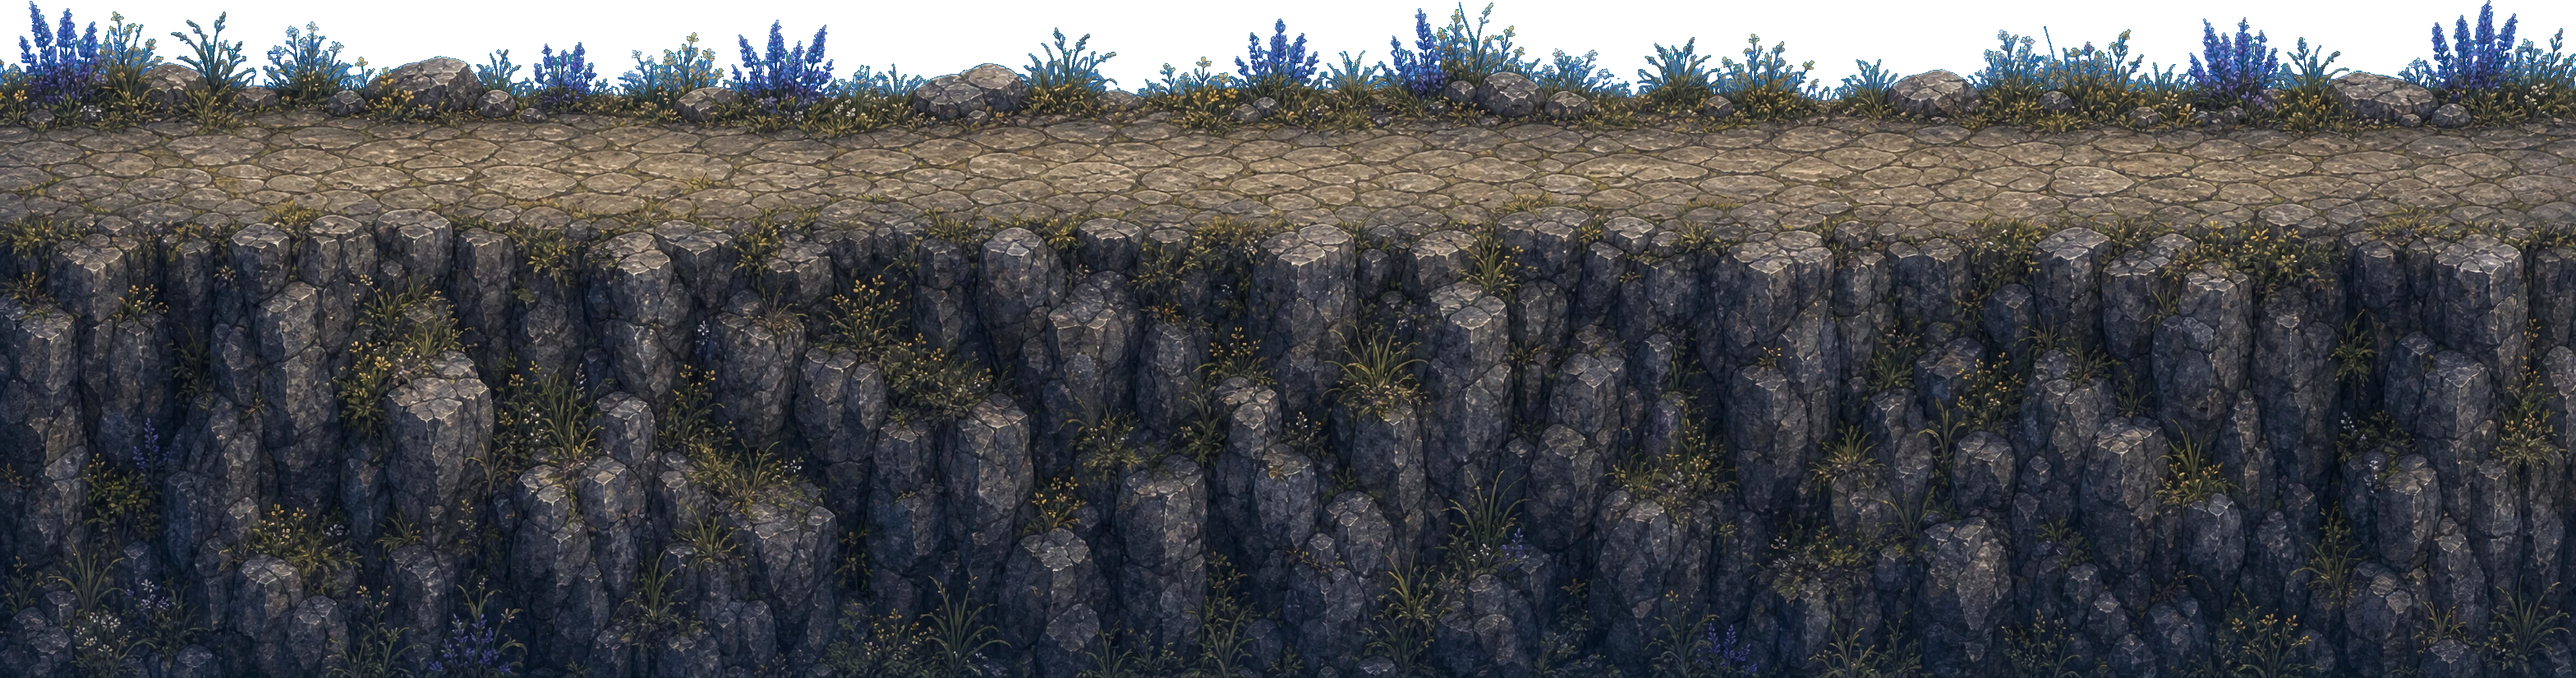
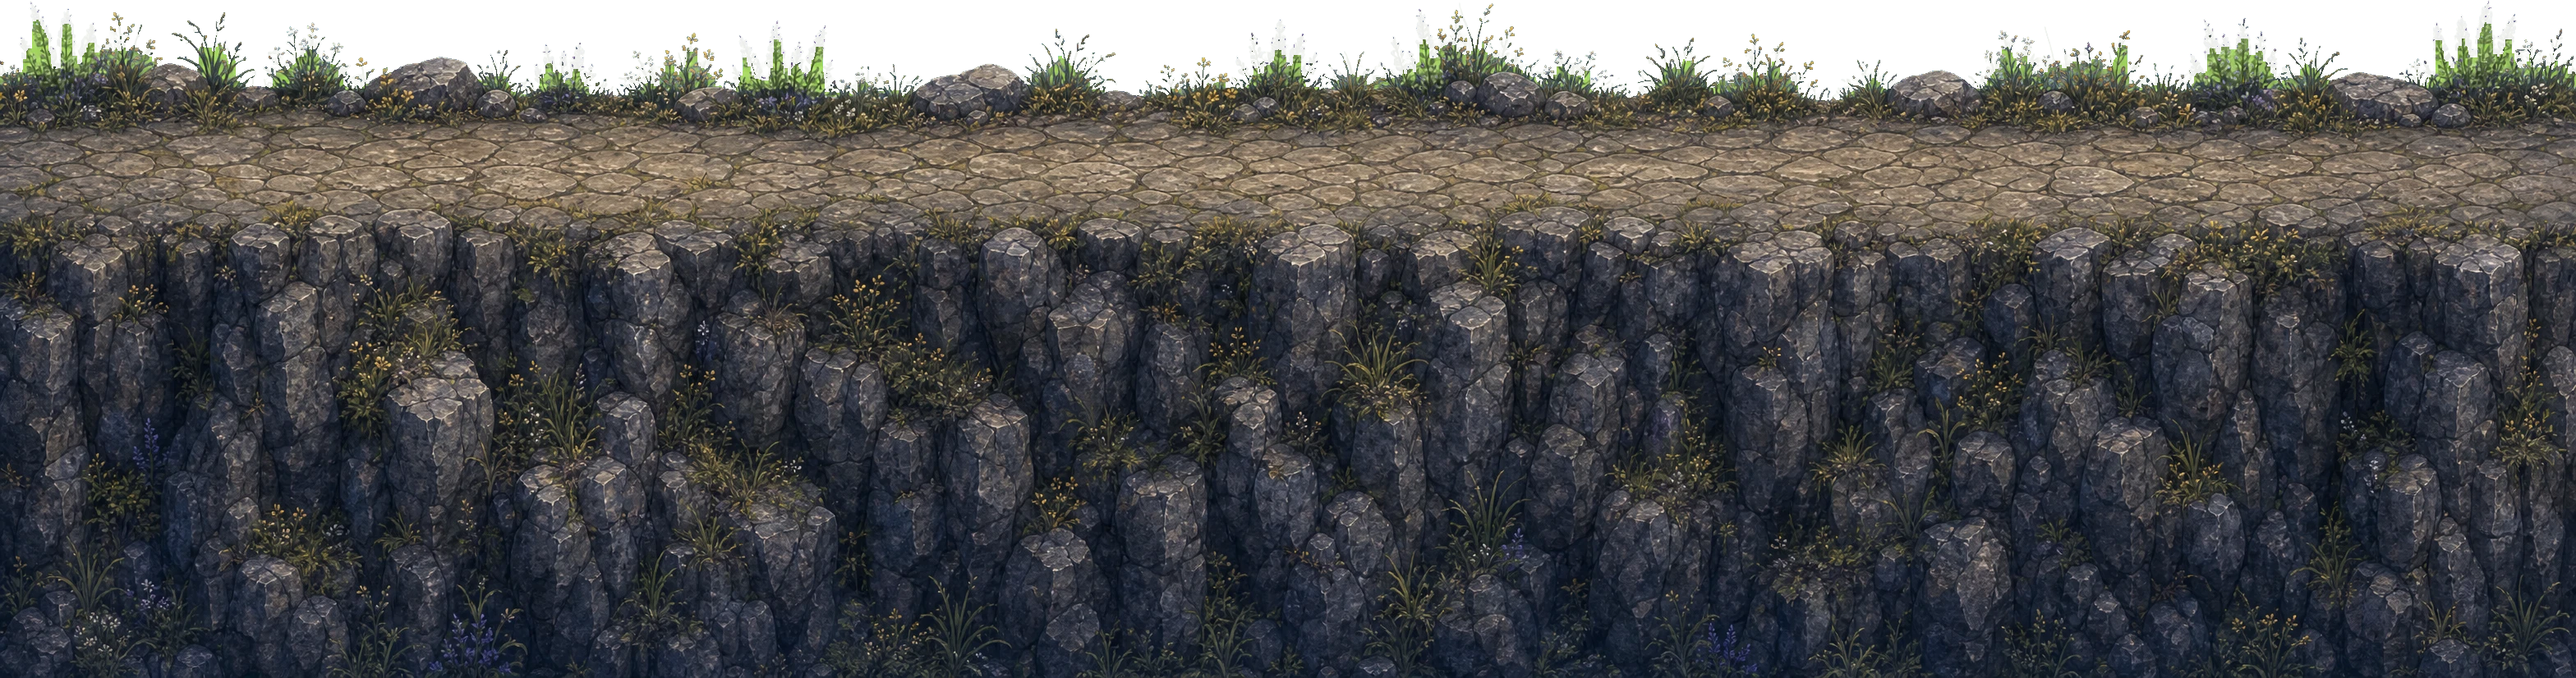
Draft 98 addendum + Draft 99: painted fog walls/gap tile, title audio leak
Draft 98 addendum: swap the procedural fog column and flat gradient gap
overlay for painted sprites (fog-wall-a/b/c cycled across the five walls
with per-wall tint/wobble/breathe, and a painted gap tile scaled to each
gap's width). Re-key runner-trail/runner-mid-ridge (grass tufts and tree
tops were still carrying key blue) and re-anchor the trail layer to the
re-keyed art's walking surface (TRAIL_ART_TOP_OFFSET).

Draft 99: the title screen could inherit a previous zone page's still-
playing campfire/forest ambience and SFX when reached mid-session via
the hub. Root cause not fully isolated to one line, but confirmed live:
an orphaned Zone 2 audio-manager AudioContext survived a full Zone2 ->
hub navigation, undisposed by Zone2Page's own cleanup (which only knows
about its current audioRef instance). Added a small registry in
zoneAudio.js (silenceAllZoneAudio) that every createZoneAudio/
createZone2Audio instance joins and leaves via dispose(); the title
screen calls it on mount so it always starts from a silent manager
regardless of what upstream page it came from.

Also removes the temporary window.__frunSeek/__frunScene debug hooks
used to verify the Fogline Runner position fix this session.

Changed region(s): [[0.1875, 0.0, 1.0, 0.1513], [0.0, 0.0, 0.1562, 0.1513]]

diff --git a/src/game/foglineRunScene.js b/src/game/foglineRunScene.js
@@ -40,6 +40,11 @@ const INPUT_BUFFER_MS = 100
 
 const LENS_WINDOW_PX = 640 // ~4 body-lengths ahead: the window a wall enters
 const WALL_HALF_W = 180 // fog column is ~360px wide
+// The trail art's own walking surface, measured in from its top edge --
+// shared by the trail layer itself and the gap tile, which is cropped and
+// scaled identically to it (Draft 98 addendum).
+const TRAIL_ART_TOP_OFFSET = 73
+const GAP_TILE_CHASM_W = 304 // the tile's own native chasm width at scale 1
 const FOG_COL_H = 650 // bottom sits on the trail, top reaches roughly y=500
 const ACTIVATE_MS = 550 // hold-to-clear duration once the lens is engaged
 const STUMBLE_OBSTACLE_MS = 600
@@ -177,6 +182,8 @@ export function makeFoglineRunScene(Phaser) {
       Object.entries(c.stumbleUrls || {}).forEach(([k, url]) => load(`stumble-${k}`, url))
       load('activate', c.activateUrl)
       Object.entries(c.propUrls || {}).forEach(([k, url]) => load(`prop-${k}`, url))
+      Object.entries(c.fogWallUrls || {}).forEach(([k, url]) => load(`fogwall-${k}`, url))
+      load('gaptile', c.gapTileUrl)
       load('mistfields', c.mistfieldsUrl)
       ;(c.sparkUrls || []).forEach((url, i) => load(`spark-${i + 1}`, url))
       Object.entries(c.sfxUrls || {}).forEach(([k, url]) => {
@@ -268,18 +275,16 @@ export function makeFoglineRunScene(Phaser) {
       }
       // Far mountains and the ridge are bottom-anchored (their own art ends
       // at its base, "vanishing" behind the next layer down). The trail is
-      // TOP-anchored instead: its walking surface is only ~70px below the
+      // TOP-anchored instead: its walking surface sits well below the
       // art's own top edge, with a tall rocky cliff-face painted below that
       // -- anchoring by its bottom would put the Traveler waist-deep in
       // that cliff face instead of standing on the path.
       this.far = this.makeScrollLayer('bg-far', 0.15, 1, { originY: 1, anchorY: 1150 })
       this.ridge = this.makeScrollLayer('bg-ridge', 0.45, 2, { originY: 1, anchorY: 1180 })
-      // Measured directly against the art (sampling alpha down several
-      // columns of the keyed source): grass tips start ~70-90px into the
-      // image, but the ground isn't reliably SOLID until ~110-130px --
-      // anchoring at the old 70px put the Traveler's feet in the grass
-      // fringe, reading as floating above the path.
-      this.trailLayer = this.makeScrollLayer('bg-trail', 1.0, 3, { originY: 0, anchorY: TRAIL_Y - 210 })
+      // Draft 98 addendum: re-measured against the re-keyed art (the
+      // re-key also fixed grass/tree-top pixels that were still carrying
+      // key blue).
+      this.trailLayer = this.makeScrollLayer('bg-trail', 1.0, 3, { originY: 0, anchorY: TRAIL_Y - TRAIL_ART_TOP_OFFSET })
     }
 
     makeScrollLayer(key, factor, depth, { originY, anchorY }) {
@@ -318,21 +323,33 @@ export function makeFoglineRunScene(Phaser) {
     // ---- trail surface + visible gaps. The trail texture scrolls exactly
     // like the other layers (factor 1.0, already built above) and never
     // actually has a hole cut in it -- these overlays are the ONLY thing
-    // visually breaking the path open at each gap. A flat opaque rectangle
-    // read as a jarring solid black block once the world-position bug
-    // (see updateWorldPositions) was fixed and these became visible for
-    // the first time in practice; a top-down gradient (solid near the
-    // path, fading out with depth) plus a thin bright rim at the lip
-    // reads as an actual drop instead, and doubles as the "where do I
-    // jump" telegraph. ----
+    // visually breaking the path open at each gap. Draft 98 addendum:
+    // a painted tile (broken trail edges either side of a chasm) replaces
+    // the original ship's flat gradient overlay -- cropped/scaled
+    // identically to the trail layer itself, so its edges line up with
+    // the surrounding ground, and scaled HORIZONTALLY ONLY to match each
+    // gap's own width (the tile's chasm is ~304px wide at scale 1, its
+    // native size; the two 300px-wide gaps are close enough to ship at
+    // that native scale unmodified). ----
     buildTrailAndGaps() {
-      const GAP_DRAW_H = 420
+      const hasTile = this.textures.exists('gaptile')
       this.gapFills = LEVEL.gaps.map((g) => {
+        if (hasTile) {
+          const scaleX = Math.max(0.66, Math.min(1, g.w / GAP_TILE_CHASM_W))
+          const img = this.add
+            .image(g.x + g.w / 2, TRAIL_Y - TRAIL_ART_TOP_OFFSET, 'gaptile')
+            .setOrigin(0.5, 0)
+            .setDepth(4)
+          img.setScale(scaleX, 1)
+          return { ...g, obj: img }
+        }
+        // Fallback if the painted tile is ever missing: the flat gradient
+        // this shipped with originally.
         const width = g.w + 8
         const container = this.add.container(g.x + g.w / 2, TRAIL_Y).setDepth(4)
         const body = this.add.graphics()
         body.fillGradientStyle(0x11151f, 0x11151f, 0x11151f, 0x11151f, 0.95, 0.95, 0, 0)
-        body.fillRect(-width / 2, 0, width, GAP_DRAW_H)
+        body.fillRect(-width / 2, 0, width, 420)
         const rim = this.add.rectangle(0, 1, width, 5, 0xd7dde8, 0.6).setOrigin(0.5, 0)
         container.add([body, rim])
         return { ...g, obj: container }
@@ -355,19 +372,48 @@ export function makeFoglineRunScene(Phaser) {
       })
     }
 
+    // Draft 98 addendum: painted fog-wall sprites (cycled a/b/c across the
+    // five walls) replace the procedural column. Bottom-anchored ON the
+    // trail; scaled to ~1.9x the Traveler's display height; a small
+    // per-wall scale "wobble" plus a slow, continuous vertical "breathe"
+    // (scaleY drifting a further 4% up and back) so five identical crops
+    // of the same three sprites don't read as static cutouts. Cool tint
+    // for walls 1-4, a touch warmer for the last one (it opens onto the
+    // Mistfields instead of a prop).
     buildWalls() {
-      this.walls = LEVEL.walls.map((w) => {
-        // Bottom-anchored ON the trail so the column actually stands in
-        // the Traveler's path (it previously floated 250-870px up in the
-        // sky, nowhere near the ground she runs on).
-        const col = this.add.image(w.x, TRAIL_Y, 'frun-fogcol').setOrigin(0.5, 1).setDepth(20)
+      const FOG_WALL_KEYS = ['a', 'b', 'c']
+      const FOG_WALL_DISPLAY_H = TRAVELER_H * 1.9
+      const TINT_COOL = 0xcfe0f2
+      const TINT_WARM = 0xf5e3c9
+      this.walls = LEVEL.walls.map((w, i) => {
+        const wallKey = `fogwall-${FOG_WALL_KEYS[i % FOG_WALL_KEYS.length]}`
+        const hasSprite = this.textures.exists(wallKey)
+        const col = this.add.image(w.x, TRAIL_Y, hasSprite ? wallKey : 'frun-fogcol').setOrigin(0.5, 1).setDepth(21)
+        if (hasSprite) {
+          const srcH = this.textures.get(wallKey).getSourceImage().height
+          const wobble = 1 + (((i * 7 + 3) % 5) / 5 - 0.5) * 0.16 // deterministic, roughly ±8%
+          const baseScale = (FOG_WALL_DISPLAY_H / srcH) * wobble
+          col.setScale(baseScale)
+          col.setTint(w.last ? TINT_WARM : TINT_COOL)
+          const breatheMs = 3000 + ((i * 733) % 2000) // 3000-5000ms, varied per wall
+          this.tweens.add({
+            targets: col,
+            scaleY: baseScale * 1.04,
+            duration: breatheMs,
+            yoyo: true,
+            repeat: -1,
+            ease: 'Sine.inOut',
+          })
+        }
         let shapeObj = null
         const size = SHAPE_SIZE[w.shape]
         if (size) {
+          // Behind the sprite (depth 21) -- it reads as "something in the
+          // fog" through the painted cloud rather than floating in front.
           shapeObj = this.add
-            .ellipse(w.x, TRAIL_Y, size.w, size.h, 0x0c1220, 0.72)
+            .ellipse(w.x, TRAIL_Y, size.w, size.h, 0x0c1220, 0.55)
             .setOrigin(0.5, 1)
-            .setDepth(21)
+            .setDepth(20)
         }
         let propObj = null
         if (w.prop) {
@@ -626,7 +672,7 @@ export function makeFoglineRunScene(Phaser) {
       // The wall visibly thins WHILE held (not just at completion) --
       // "the beam builds... the wall thins" reads as one continuous
       // action, and a released-early hold keeps its partial progress.
-      wall.col.setAlpha(0.92 * (1 - t * 0.65))
+      wall.col.setAlpha(1 - t * 0.65)
       if (t >= 1) this.clearWall(wall)
     }
 

diff --git a/src/components/gains/zone/zoneAudio.js b/src/components/gains/zone/zoneAudio.js
@@ -67,6 +67,23 @@ function rampGain(node, to, ms) {
   rampState.set(node, requestAnimationFrame(step))
 }
 
+// Draft 99: every zone page owns its own manager instance and disposes it
+// correctly on unmount -- but a belt-and-suspenders registry costs little
+// and means a page that mounts *after* a zone (namely the title screen,
+// reachable mid-session via the hub) can guarantee silence regardless of
+// whatever upstream page it came from, rather than trusting that every
+// past and future zone page's cleanup path is bug-free. Both manager
+// flavors below register themselves here and unregister in `dispose()`.
+const liveManagers = new Set()
+
+// Force-dispose every zone audio manager that hasn't already torn itself
+// down. Idempotent (each manager's own `disposed` flag no-ops a repeat
+// dispose), safe to call even when nothing is live.
+export function silenceAllZoneAudio() {
+  for (const m of liveManagers) m.dispose()
+  liveManagers.clear()
+}
+
 // `pondUrl` is optional (Draft 80): not every zone's station has its own
 // proximity-crossfaded soundscape (Zone 3's waystone doesn't). `sfxBase`
 // defaults to `base` but can point elsewhere so a zone can reuse another
@@ -118,7 +135,7 @@ export function createZoneAudio({ base, sfxBase, pondUrl }) {
     }
   }
 
-  return {
+  const api = {
     // Must be called synchronously inside a real user gesture.
     unlock() {
       if (unlocked || disposed) return
@@ -322,8 +339,11 @@ export function createZoneAudio({ base, sfxBase, pondUrl }) {
         }
         ctx = null
       }
+      liveManagers.delete(api)
     },
   }
+  liveManagers.add(api)
+  return api
 }
 
 // Draft 94 (Zone 2): a second, parallel audio manager rather than
@@ -493,7 +513,7 @@ export function createZone2Audio({ base, sfxBase }) {
       })
   }
 
-  return {
+  const api = {
     unlock() {
       if (unlocked || disposed) return
       unlocked = true
@@ -746,6 +766,9 @@ export function createZone2Audio({ base, sfxBase }) {
         }
         ctx = null
       }
+      liveManagers.delete(api)
     },
   }
+  liveManagers.add(api)
+  return api
 }

diff --git a/src/pages/GainsTitlePage.jsx b/src/pages/GainsTitlePage.jsx
@@ -26,6 +26,7 @@
 import { useEffect, useRef, useState } from 'react'
 import { useNavigate } from 'react-router-dom'
 import { TITLE, SUBTITLE } from '../components/gains/title/titleCopy.js'
+import { silenceAllZoneAudio } from '../components/gains/zone/zoneAudio.js'
 import '../styles/gains-tokens.css'
 
 const BASE = '/long-light/title'
@@ -445,6 +446,13 @@ export default function GainsTitlePage() {
   useEffect(() => {
     const root = document.getElementById('title-screen')
     if (!root) return undefined
+
+    // Draft 99: the title screen is reachable mid-session from the hub
+    // (Zone 1/2/3/4 -> hub -> title), so it can't assume it's the first
+    // thing to ever mount -- force every zone page's audio manager silent
+    // before this page schedules its own music/ambience, regardless of
+    // whether the zone page it came from disposed itself correctly.
+    silenceAllZoneAudio()
 
     function fit() {
       const s = Math.min(window.innerWidth / 1080, window.innerHeight / 1920)

diff --git a/src/components/TraversalGame.jsx b/src/components/TraversalGame.jsx
@@ -157,6 +157,15 @@ const MODES = {
         stump: '/long-light/zone2/runner/props/stump.webp',
         signpost: '/long-light/zone2/runner/props/signpost.webp',
       },
+      // Draft 98 addendum: painted fog-wall sprites (cycled a/b/c across
+      // the five walls) and a painted gap tile, replacing the original
+      // ship's procedural column/gradient.
+      fogWallUrls: {
+        a: '/long-light/zone2/runner/fog-wall-a.webp',
+        b: '/long-light/zone2/runner/fog-wall-b.webp',
+        c: '/long-light/zone2/runner/fog-wall-c.webp',
+      },
+      gapTileUrl: '/long-light/zone2/runner/runner-gap-tile.webp',
       // The last fog wall reveals Zone 3 rather than a prop -- reuse its
       // already-served map plate (the broken bridge is painted into it).
       mistfieldsUrl: '/long-light/zone3/map.webp',
